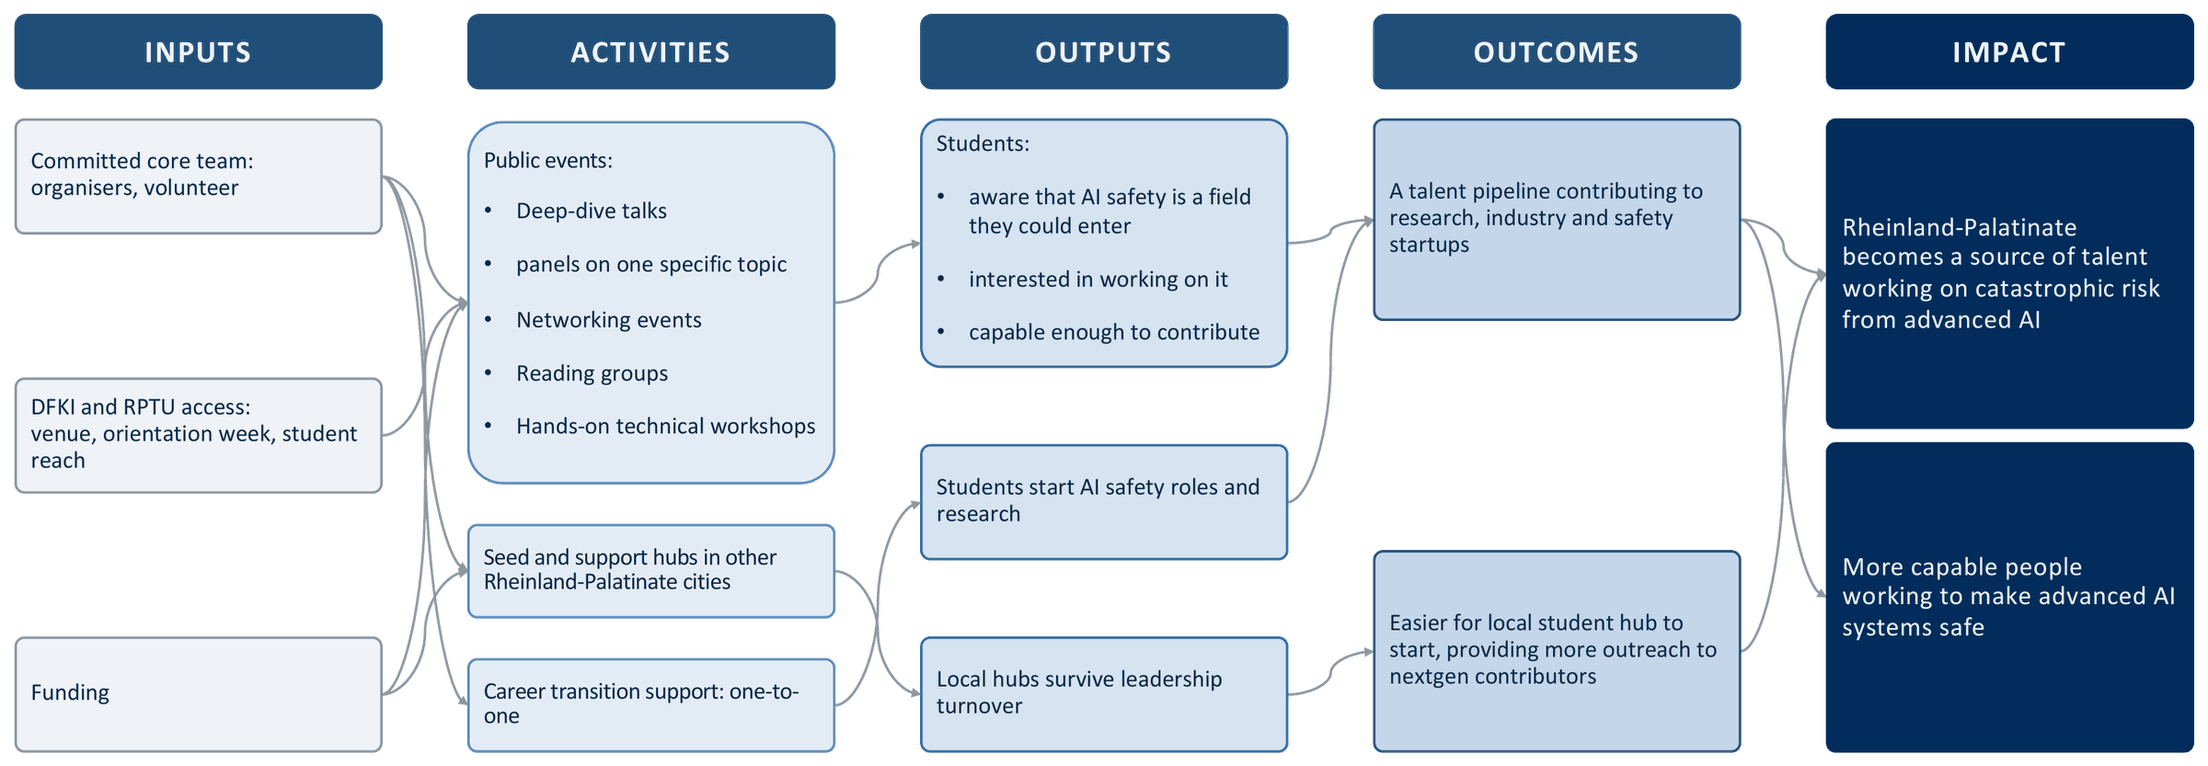
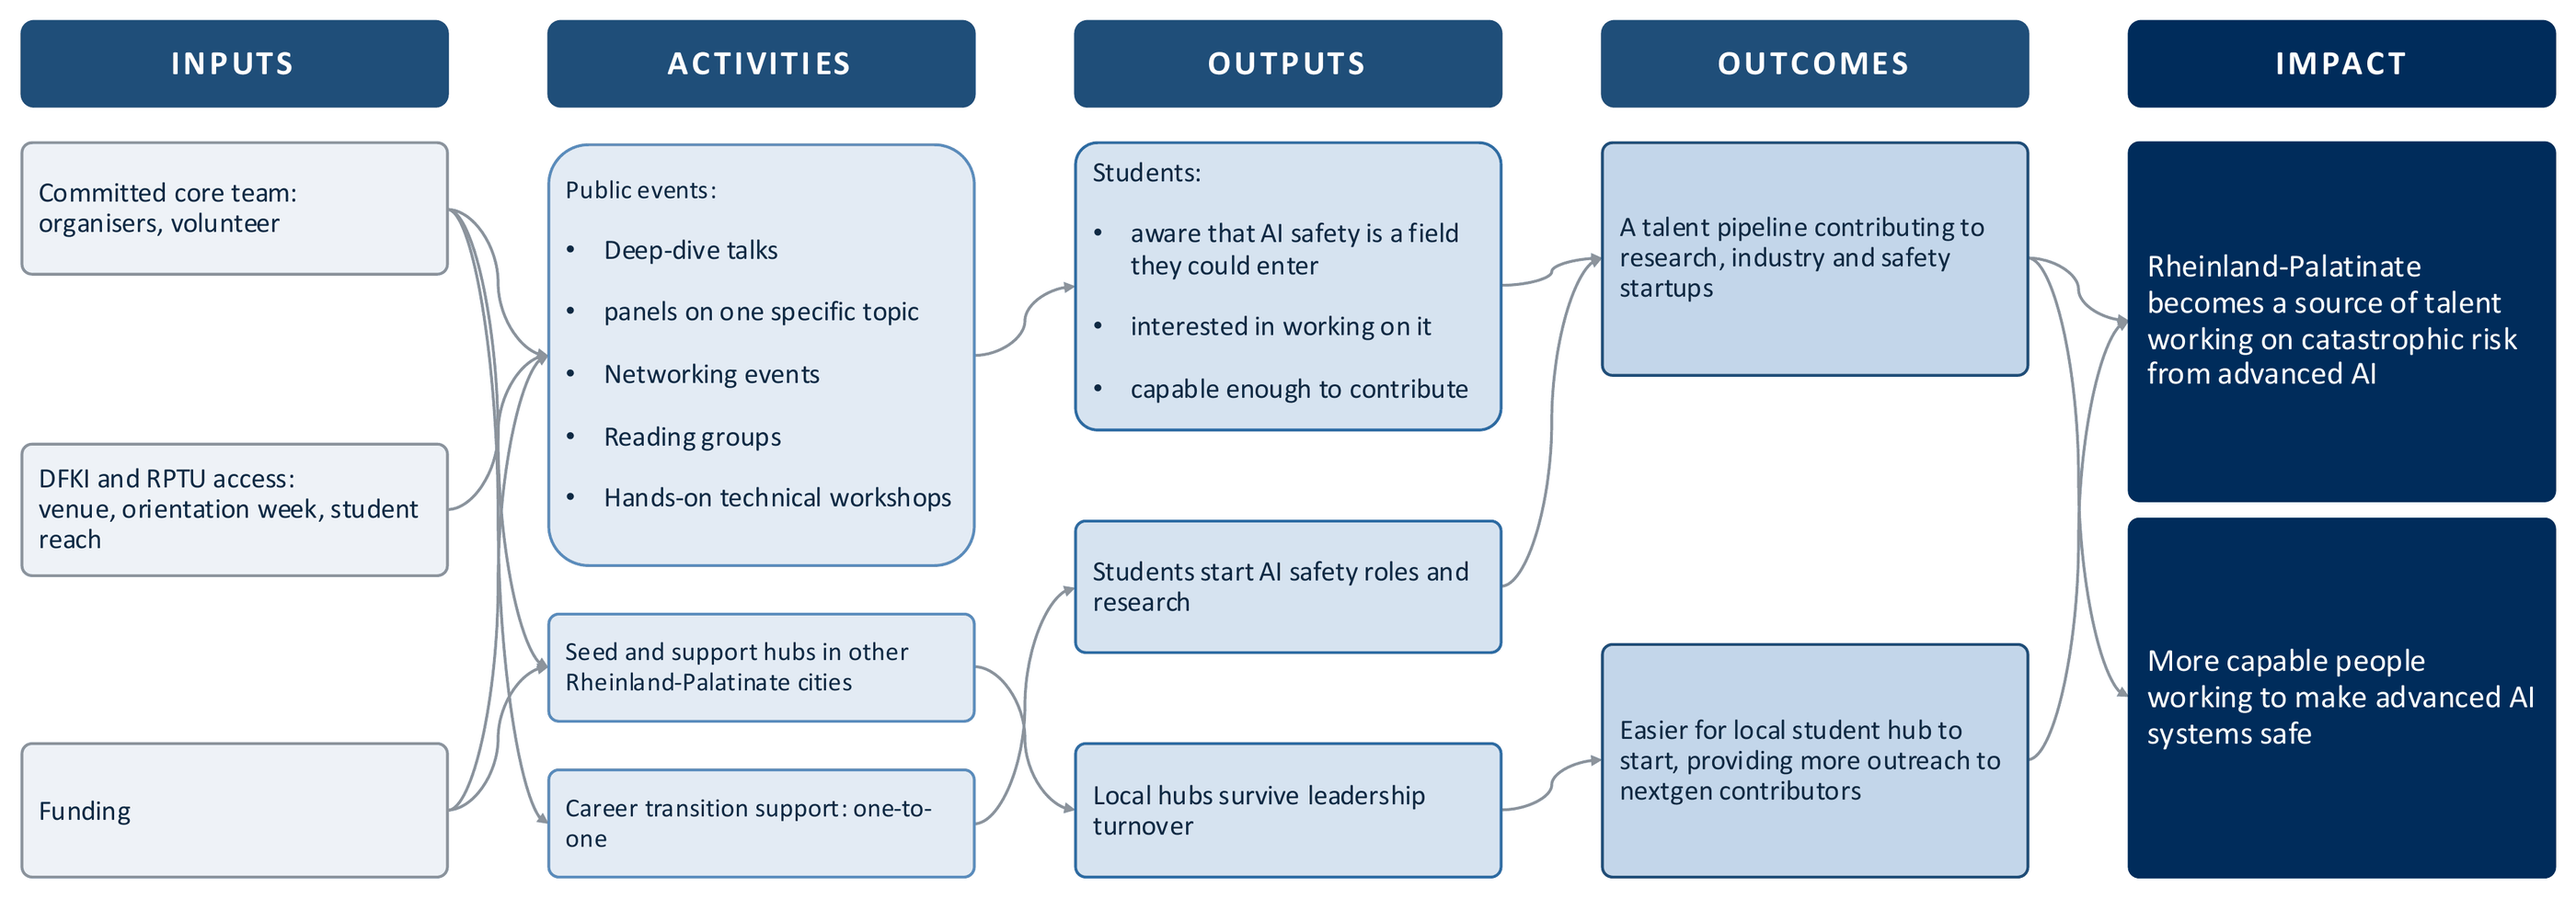
Sharper theory-of-change figure, stacked event buttons, resource tabs
- Theory of change: re-exported from page 1 of the ToC PDF on a white
  card, wider than the text column, with an "Open full size" link
- Register button gets a visible edge; Register and Manage or cancel
  stay stacked on every screen size
- Resources: Learn / Communities / Careers become tabs (main.js);
  without JS the 3 groups still show side by side

diff --git a/assets/css/styles.css b/assets/css/styles.css
@@ -330,7 +330,12 @@ svg { fill: none; stroke: currentColor; stroke-width: 1.6; stroke-linecap: round
 .btn-primary { background: var(--accent); color: var(--on-accent); }
 .btn-primary:hover { background: var(--accent-ink); }
 
-.btn-brand { background: var(--brand); color: var(--surface); }
+.btn-brand {
+  background: var(--brand);
+  color: var(--surface);
+  border-color: var(--brand-deep);
+  box-shadow: 0 0 0 1px var(--brand), var(--shadow-sm);   /* visible edge on every background */
+}
 .btn-brand:hover { background: var(--brand-deep); color: #FFFFFF; }
 
 .btn-ghost {
@@ -554,9 +559,22 @@ svg { fill: none; stroke: currentColor; stroke-width: 1.6; stroke-linecap: round
 
 /* ---------- Theory of change ---------- */
 
-.toc-figure { margin: 0; }
-.toc-scroll { overflow-x: auto; }           /* narrow screens scroll sideways instead of shrinking the text */
-.toc-scroll img { display: block; width: 100%; min-width: 760px; height: auto; }
+.toc-figure {
+  /* wider than the text column, so the cell text stays readable */
+  width: min(1400px, calc(100vw - 2rem));
+  margin: 0 0 0 50%;
+  transform: translateX(-50%);
+}
+.toc-scroll {
+  overflow-x: auto;                        /* narrow screens scroll sideways instead of shrinking the text */
+  padding: clamp(.75rem, 2vw, 1.5rem);
+  background: #FFFFFF;                     /* the diagram is drawn on white */
+  border: 1px solid var(--line);
+  border-radius: var(--radius);
+  box-shadow: var(--shadow-sm);
+}
+.toc-scroll img { display: block; width: 100%; min-width: 900px; height: auto; }
+.toc-figure figcaption { margin-top: .6rem; text-align: right; font-size: .85rem; }
 
 /* ---------- Join ---------- */
 
@@ -640,6 +658,27 @@ svg { fill: none; stroke: currentColor; stroke-width: 1.6; stroke-linecap: round
   transition: border-color .15s ease, background .15s ease;
 }
 .res:hover { border-color: var(--brand); background: var(--brand-soft); }
+
+/* tabs, added by main.js */
+.res-tabs { display: flex; flex-wrap: wrap; gap: .5rem; margin-bottom: 1.25rem; }
+.res-tab {
+  padding: .5rem 1.1rem;
+  border: 1px solid var(--line-strong);
+  border-radius: 999px;
+  background: var(--surface);
+  color: var(--ink-soft);
+  font: inherit;
+  font-size: .9rem;
+  font-weight: 600;
+  cursor: pointer;
+}
+.res-tab:hover { border-color: var(--muted); color: var(--ink); }
+.res-tab[aria-selected="true"] { background: var(--brand); border-color: var(--brand); color: var(--surface); }
+.res-columns.has-tabs { display: block; }
+.res-columns.has-tabs .res-label {           /* the tab already names the group */
+  position: absolute; width: 1px; height: 1px; overflow: hidden; clip: rect(0 0 0 0); white-space: nowrap;
+}
+.res-columns.has-tabs .res-grid { grid-template-columns: repeat(3, minmax(0, 1fr)); }
 .res strong { display: block; font-size: .96rem; margin-bottom: .15rem; }
 .res strong::after { content: " \2197"; color: var(--muted); font-weight: 400; }   /* external link */
 .res span { font-size: .85rem; color: var(--muted); }
@@ -815,16 +854,17 @@ svg { fill: none; stroke: currentColor; stroke-width: 1.6; stroke-linecap: round
 
 @media (max-width: 980px) {
   .res-columns { grid-template-columns: 1fr; }
+  .res-columns.has-tabs .res-grid { grid-template-columns: repeat(2, minmax(0, 1fr)); }
 }
 
 @media (max-width: 620px) {
   .cards-3,
-  .join-grid { grid-template-columns: 1fr; }
+  .join-grid,
+  .res-columns.has-tabs .res-grid { grid-template-columns: 1fr; }
 
   .event { grid-template-columns: auto minmax(0, 1fr); }
   .event > .btn,
   .event-actions { grid-column: 2; justify-self: start; }
-  .event-actions { flex-direction: row; flex-wrap: wrap; }
 
   .btn-row .btn { flex: 1 1 auto; }
   .footer-grid { grid-template-columns: 1fr; }

diff --git a/index.html b/index.html
@@ -318,7 +318,7 @@
   </section>
 
   <!-- ───────────────────────── Vision ───────────────────────── -->
-  <!-- Image: slide 1 of strategy/theory-of-change.pptx, cropped to the headers and cells.
+  <!-- Image: page 1 of strategy/ToC-AI Safety Kaiserslautern.pdf, cropped to the headers and cells.
        Re-export it when the deck changes, and keep the alt text in step. -->
   <section class="section section-alt" id="vision">
     <div class="wrap">
@@ -330,9 +330,12 @@
 
       <figure class="toc-figure">
         <div class="toc-scroll">
-          <img src="assets/img/theory-of-change.png" width="2400" height="833" loading="lazy"
+          <img src="assets/img/theory-of-change.png" width="2800" height="977" loading="lazy"
                alt="Theory of change in 5 columns. Inputs: committed core team (organisers, volunteers), DFKI and RPTU access (venue, orientation week, student reach), funding. Activities: public events (deep-dive talks, topic panels, networking events, reading groups, hands-on technical workshops), seeding and supporting hubs in other Rhineland-Palatinate cities, one-to-one career transition support. Outputs: students aware of, interested in and capable of contributing to AI safety; students starting AI safety roles and research; local hubs that survive leadership turnover. Outcomes: a talent pipeline into research, industry and safety startups; easier starts for new local student hubs. Impact: Rhineland-Palatinate becomes a source of talent working on catastrophic risk from advanced AI; more capable people working to make advanced AI systems safe. Arrows: the core team feeds all 3 activities; DFKI and RPTU access feeds public events; funding feeds public events and hub seeding. Public events lead to aware students, hub seeding to resilient hubs, career support to students starting roles. Both student outputs feed the talent pipeline, resilient hubs feed easier hub starts. The talent pipeline leads to both impacts; easier hub starts lead to the Rhineland-Palatinate talent source.">
         </div>
+        <figcaption>
+          <a href="assets/img/theory-of-change.png" target="_blank" rel="noopener">Open full size</a>
+        </figcaption>
       </figure>
     </div>
   </section>

diff --git a/assets/js/main.js b/assets/js/main.js
@@ -64,6 +64,55 @@
     onScroll();
   }
 
+  /* ---- Resources: Learn / Communities / Careers as tabs ----
+     Without JS the three groups simply sit side by side. */
+  var res = document.querySelector('.res-columns');
+  if (res) {
+    var groups = Array.prototype.slice.call(res.querySelectorAll('.res-group'));
+    var bar = document.createElement('div');
+    bar.className = 'res-tabs';
+    bar.setAttribute('role', 'tablist');
+    bar.setAttribute('aria-label', 'Resource type');
+    var tabs = groups.map(function (g, i) {
+      var label = g.querySelector('.res-label');
+      var id = 'res-panel-' + i;
+      g.id = id;
+      g.setAttribute('role', 'tabpanel');
+      var t = document.createElement('button');
+      t.type = 'button';
+      t.className = 'res-tab';
+      t.id = 'res-tab-' + i;
+      t.setAttribute('role', 'tab');
+      t.setAttribute('aria-controls', id);
+      t.textContent = label ? label.textContent : 'Group ' + (i + 1);
+      g.setAttribute('aria-labelledby', t.id);
+      bar.appendChild(t);
+      return t;
+    });
+    var select = function (i, focus) {
+      tabs.forEach(function (t, k) {
+        var on = k === i;
+        t.setAttribute('aria-selected', String(on));
+        t.tabIndex = on ? 0 : -1;
+        groups[k].hidden = !on;
+      });
+      if (focus) tabs[i].focus();
+    };
+    bar.addEventListener('click', function (e) {
+      var t = e.target.closest('.res-tab');
+      if (t) select(tabs.indexOf(t));
+    });
+    bar.addEventListener('keydown', function (e) {
+      var i = tabs.indexOf(document.activeElement);
+      if (i < 0) return;
+      if (e.key === 'ArrowRight') select((i + 1) % tabs.length, true);
+      if (e.key === 'ArrowLeft') select((i - 1 + tabs.length) % tabs.length, true);
+    });
+    res.parentNode.insertBefore(bar, res);
+    res.classList.add('has-tabs');
+    select(0);
+  }
+
   /* ---- Footer year ---- */
   var year = document.getElementById('year');
   if (year) year.textContent = String(new Date().getFullYear());
